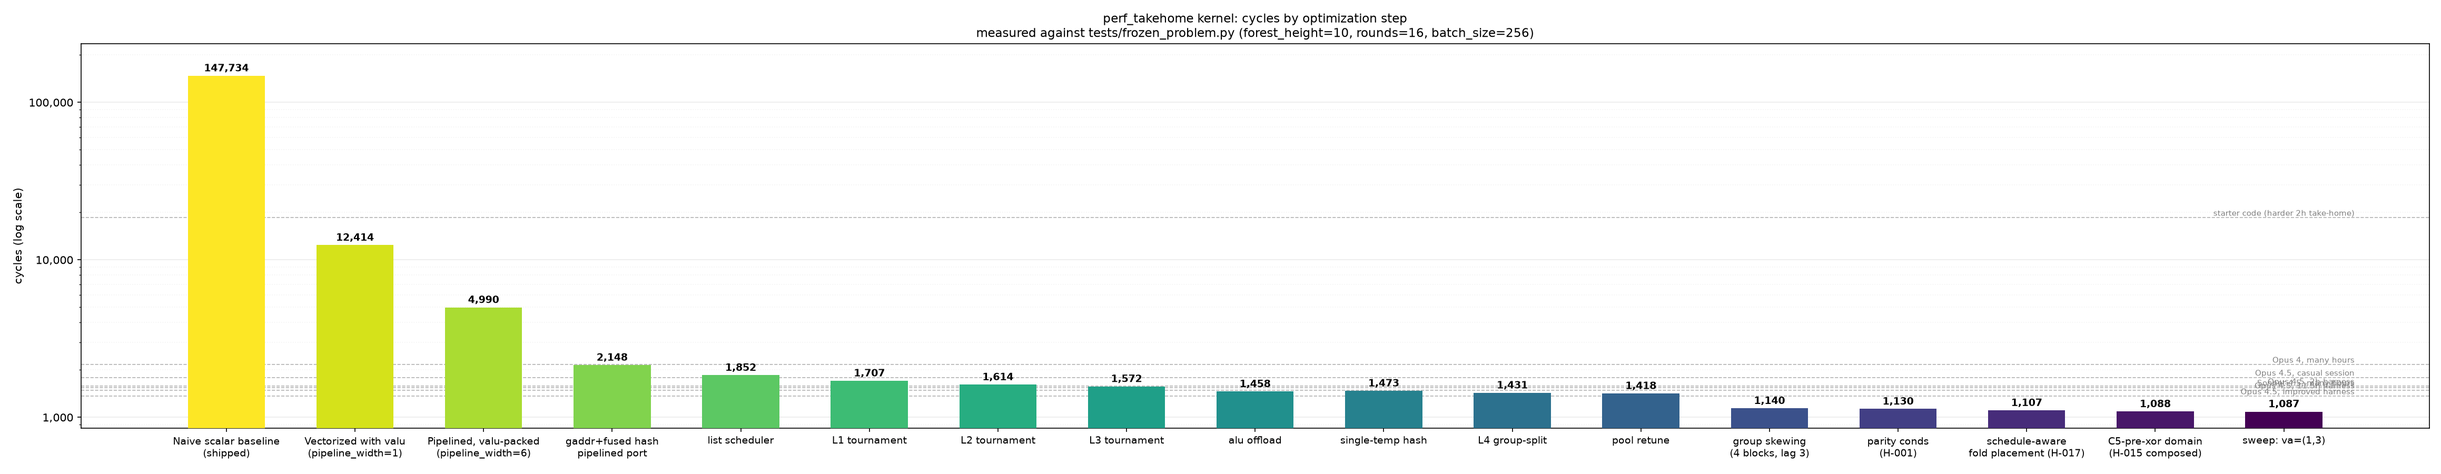
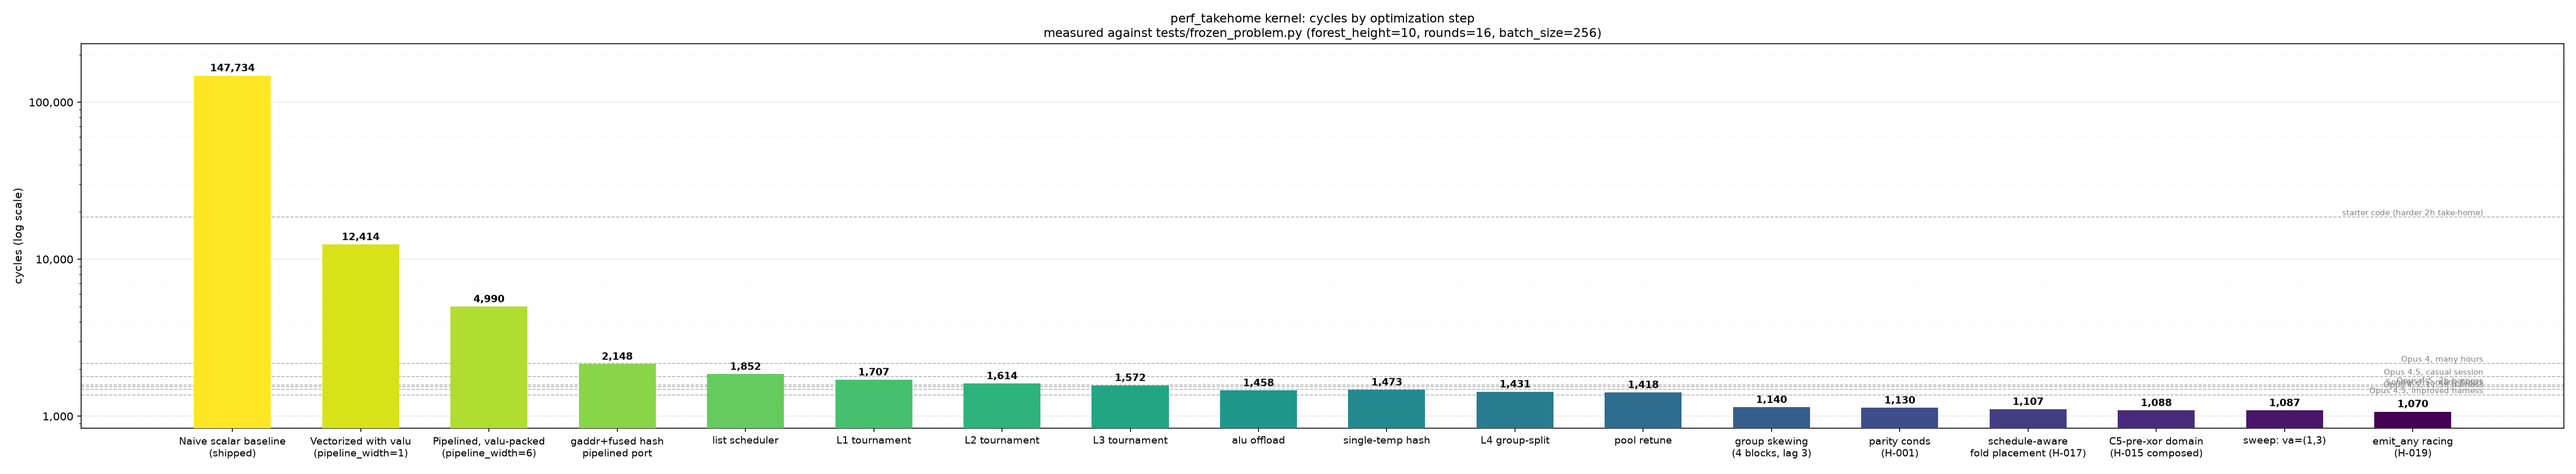
Iter 3: H-019 emit_any accepted, mainline 1087 -> 1070; sel_race -> G-14
Unified encoding-race placement (emit_any): U-combine flow/valu race,
partial-L4 odd tables (l4_race=3), Idx-madd alu spellings (idx_race).
Composed retune: va=(1,2), l4_gmin=(13,28), pools (16,4). Grader 9/9 at
1070. alu now 93.9% -- placement racing at its ceiling; op removal next.

Claude-Session: https://claude.ai/code/session_01FPDQQCWYWR2ENky8rcMJZn

diff --git a/tools/run_variant.py b/tools/run_variant.py
@@ -32,12 +32,15 @@ sys.path.insert(0, os.path.join(REPO_ROOT, "tests"))
 BASE_KWARGS = {
     "tournament_levels": (1, 2, 3),
     "alu_offload": True,
-    "l4_gmin": (15, 29),
-    "pool_sizes": (17, 4),
+    "l4_gmin": (13, 28),
+    "pool_sizes": (16, 4),
     "skew": (4, 3),
     "parity_conds": True,  # H-001 accepted iter 1 (1140 -> 1130)
-    "vsel_auto": (1, 3),  # H-017 iter 2; retuned to (1,3) by phase-3 sweep @1087
+    "vsel_auto": (1, 2),  # H-017 iter 2; (1,3) sweep-win superseded by H-019 retune
     "c5_prexor": True,  # H-015 accepted iter 2 (composed retune -> 1088)
+    "u_race": True,  # H-019 accepted iter 3 (emit_any U-combine race)
+    "l4_race": 3,  # H-019: first 3 W-pairs dual-encoded
+    "idx_race": True,  # H-019: Idx madds get alu spellings
     "debug_compares": False,  # speed; grader ignores debug slots anyway
 }
 SHAPE = {"forest_height": 10, "batch_size": 256, "rounds": 16}

diff --git a/perf_takehome.py b/perf_takehome.py
@@ -278,8 +278,9 @@ class KernelBuilder:
             self.build_kernel_scheduled(
                 batch_size, rounds, forest_height,
                 tournament_levels=(1, 2, 3), alu_offload=True,
-                parity_conds=True, c5_prexor=True, vsel_auto=(1, 3),
-                pool_sizes=(17, 4), l4_gmin=(15, 29),
+                parity_conds=True, c5_prexor=True, vsel_auto=(1, 2),
+                u_race=True, l4_race=3, idx_race=True,
+                pool_sizes=(16, 4), l4_gmin=(13, 28),
             )
         else:
             self.build_kernel_pipelined(

diff --git a/research/RESEARCH.md b/research/RESEARCH.md
@@ -7,13 +7,14 @@
 
 | cycles | commit | config |
 |---|---|---|
-| 1087 | (iter-3 sweep) | `tournament_levels=(1,2,3), alu_offload=True, parity_conds=True, c5_prexor=True, vsel_auto=(1,3), pool_sizes=(17,4), l4_gmin=(15,29)` |
+| 1070 | (iter-3) | `tournament_levels=(1,2,3), alu_offload=True, parity_conds=True, c5_prexor=True, vsel_auto=(1,2), u_race=True, l4_race=3, idx_race=True, pool_sizes=(16,4), l4_gmin=(13,28)` |
 
 ## Floors (calibrated 2026-07-23, see tools/diagnose_kernel.py)
 
-- Op-mix floor: valu still binding: 6439 slots / 6 = ~1073 cycle-equivalents
-  at 1107 actual (34 cyc scheduling slack). flow 58.3%, alu 87.6%, load 89.6%.
-- Scratch: 1519/1536 -- 17 words FREE (first headroom since iter 0).
+- Op-mix floor: valu 6262 slots / 6 = ~1044 cycle-equivalents at 1070 actual
+  (26 cyc slack). alu 93.9% (near-saturated!), flow 61.9%, load 89.8%.
+  BOTH compute engines converging: placement racing at ceiling; remaining
+  route to <1000 = lane-op REMOVAL (valu toward <6000) + slack harvest.
 - Flow-offload ceiling: floor -> ~962 if routing/idx arithmetic moves to flow (29.6% used)
 - Load floor: 1,936 gathers / 2 per cyc = 968 (load 87.4% busy)
 - Hash-only absolute floor: 49,152 lane-ops / 60 per cyc = 819
@@ -48,3 +49,4 @@ Global: 6 dry iterations -> one cross-pollination iteration. Status report to us
 - iter 2 CLOSED | H-014 REJECTED (0 nv-bound gathers) -> G-11; H-017 vsel_auto ACCEPTED (-23) -> 1107, hard flip -> G-12; H-015 c5_prexor ACCEPTED composed (-19) -> 1088 (driver fixed vsel_auto arm-order interaction + composed retune: va=(1,2), gmin=(15,29)); re-sweep negative | best 1088
 - iter 3 (in flight) | sweep phase 3: vsel_auto=(1,3) accepted (-1) -> 1087; H-019/H-004+18/H-010 agents running | best 1087
 - iter 3 | H-010 honest zero -> G-13; critical-path RETIRED, scheduler strain rotated in (H-021). H-019, H-004+18 still running | best 1087
+- iter 3 | H-019 emit_any ACCEPTED 1070 (-17); sel_race -> G-14; alu 93.9% (racing ceiling reached). H-004+18 agent still running | best 1070

diff --git a/research/backlog.md b/research/backlog.md
@@ -219,15 +219,22 @@ strain STATE.md and the driver promotes them here.
 - result:
 - log: 2026-07-23 promoted from flow-balance P-2.
 
-### H-019 [strain: flow-balance] [status: open]
+### H-019 [strain: flow-balance] [status: accepted]
 - statement: Generalize dual placement (H-017's P-4): partial-L4 vsel_auto
   (17 free words fund 2 of 8 W-pair odd tables) and a ListScheduler
   `emit_any(encodings)` primitive unifying the fold race with the alu-split
   race — every multi-encoding op placed wherever it retires earliest.
 - predicted: -5..-15 cyc (valu floor 1073 vs 1107 actual = 34 cyc of slack
   to harvest). cost: M. depends: H-017 (in mainline).
-- result:
-- log: 2026-07-23 promoted from flow-balance P-4.
+- result: ACCEPTED iter 3 at 1070 (-17 net): emit_any() unifies all encoding
+  races (bit-identical refactor of dual_fold + alu-split); u_race (L4
+  U-combines flow-vs-valu) is the enabler (-4 alone), l4_race=3 partial odd
+  tables, idx_race alu spellings (-5 composed), l4_gmin drifts again to
+  (13,28). sel_race (reverse race) measured negative -> G-14. Composed
+  retune confirms va=(1,2); the (1,3) sweep-win was flag-set-specific.
+  valu 6262 slots (floor 1044); alu now 93.9% -- BOTH compute engines near
+  saturation; placement racing is at its ceiling (P-7: op removal next).
+- log: 2026-07-23 promoted; iter 3 ACCEPTED, dispatch flipped.
 
 ### H-020 [strain: sweep] [status: open]
 - statement: pool-shape x vsel_auto interaction sweep ((16,3) beat (17,3) by
@@ -247,3 +254,10 @@ strain STATE.md and the driver promotes them here.
 - predicted: -10..-26 cyc (bounded by the floor gap). cost: M.
 - result:
 - log: 2026-07-23 opened at strain rotation.
+
+### H-022 [strain: sweep] [status: open]
+- statement: grid additions from H-019's P-8: u_race x l4_race subsets x
+  idx_race x l4_gmin dense x pools under the 1070 mainline.
+- predicted: -1..-5. cost: S. depends: none.
+- result:
+- log: 2026-07-23 promoted from flow-balance P-8.

diff --git a/research/graveyard.md b/research/graveyard.md
@@ -116,3 +116,12 @@ Seeded 2026-07-23 from the 2148->1140 campaign's measured rejections.
   critical-path rejection (G-8, G-11, G-13) -> strain retired.
 - reopen-if: valu AND alu both gain >=8% headroom. Retest hooks kept:
   parity_early, spec_fold flags (one command each, see H-013).
+
+### G-14 sel_race: flow->valu reverse race for 0/1-cond selects (H-019 part)
+- statement: letting existing flow vselects fall back to valu when flow is
+  locally constrained wins cycles.
+- evidence: +1..+3 in every combination at the 1088 base; valu is the
+  binding engine so giving it MORE work never pays, even raced. Kept
+  in-tree as a negative control flag.
+- reopen-if: valu drops below ~90% busy while flow locally saturates
+  (e.g. after a large op-removal accept).
